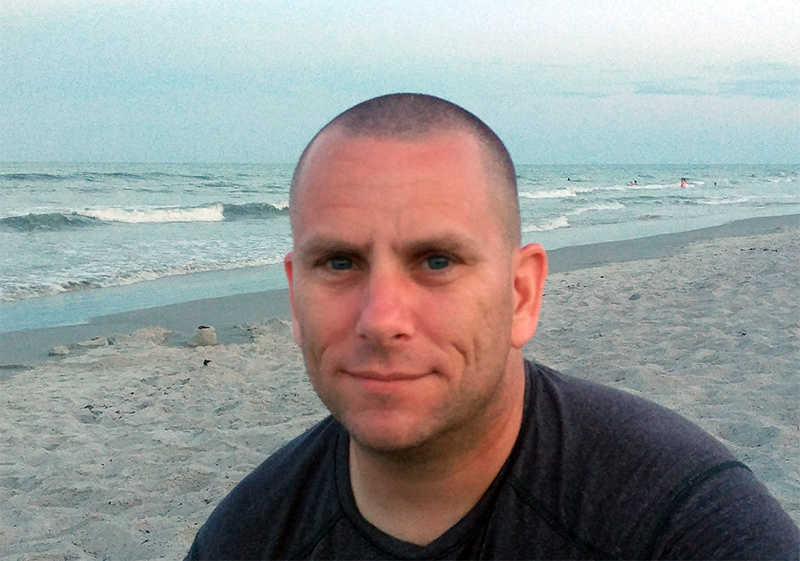
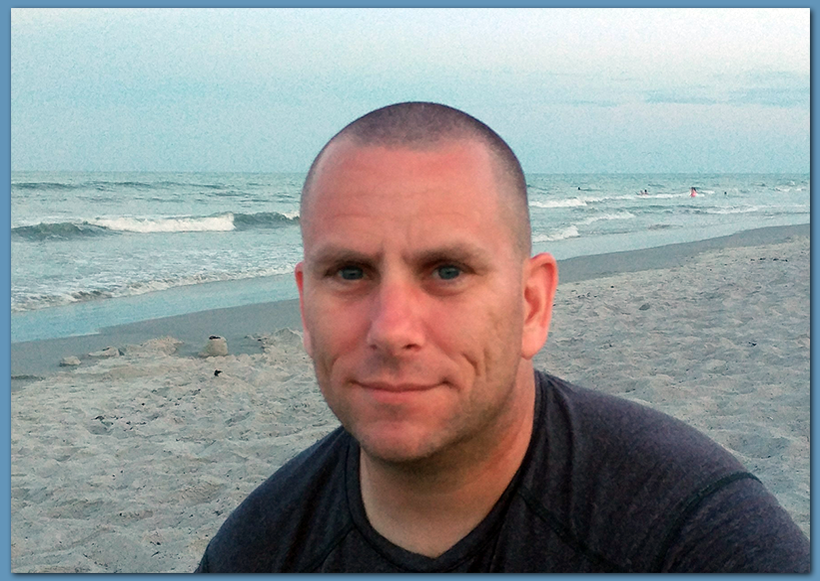
Mobile version fucking sucks
Content update / upgrade
Add/clean up image
Add Content
Re-arrange the grid
Color Content

Next up: Add some flavor

diff --git a/index.html b/index.html
@@ -19,51 +19,35 @@
         </div>
         <div class="mainLeft">
             <div class="img">
-                <img src="images/aegishjalmur.png" height="400" width="400">
+                <img src="images/adrian.png" class="responsive">
+                <!-- !This is temporary until I can get a good picture done up!-->
             </div>
         </div>
         <div class="mainRight">
             <p>
-                I'm learning to be a web developer with other vets at <a href="https://vetswhocode.io/">VetsWhoCode</a>!  Studying CS at <a href="https://www.starkstate.edu/">Stark State College</a>.
+                Currently studying to be a web developer with other vets at the <a href="https://vetswhocode.io/">Vets Who Code</a> cohort.<br>A passion for Android development led me to pursue an Associate's degree in Computer Science and an Associate's Degree in Web Design & Development from <a href="https://www.starkstate.edu/">Stark State College</a>.
             </p>
         </div>
         <div class="nav">
             <ul>
-                <li><a href="#">About</a></li>
-                <br>
-                <li><a href="#">Projects</a></li>
-                <br>
-                <li><a href="#">Blog</a></li>
-                <br>
-                <li><a href="#">Contact</a></li>
+                <li>
+                    <a href="#">About</a>
+                    &nbsp;
+                    <a href="#">Projects</a>
+                    &nbsp;
+                    <a href="#">Blog</a>
+                    &nbsp;
+                    <a href="#">Contact</a>
+                </li>
             </ul>
         </div>
-        <div class="footer"></div>
-    </div>
-    <!--
-    <section>
-        <div class="container">
-            <div id="about" class="flexxed">
-                <h2>About Me</h2>
-                <p>
-                    I am a married father of 3 children, ages 22, 17, and 10.  Currently I am pursuing associate's degrees in Computer Science and Web design and Development at Stark State College.  I am also attending the <a href="https://vetswhocode.io/" target="_blank">VetsWhoCode</a> cohort learning web development.
-                </p>
-            </div>
-            <div id="background" class="flexxed">
-                <h2>Coding Background</h2>
-                <br>
-                <p>
-                    My coding journey started back in 2012, learning Android development. I built custom themes as well as various ROMs, such as Vanir, Exodus, and Unholy.
-                </p>
-            </div>
-            <div id="more" class="flexxed">
-                <h2>3rd Column</h2>
-                <p>
-                    Bork bork bork viking the kracken axes skald Leif Erikson terror, skald longship ikea raiding the kracken bjorn the chair. Beowulf terror berserker sea sailing horns longship longship skald, berserker sea ikea berserker lack the table. The kracken skald the kracken, bork bork bork tall blond women berserker sea loot lack the table ocean ikea Beowulf horns scandinavia. Terror swords raiding terror ocean axes sea. Horns boats bork bork bork skald sea bork bork bork Leif Erikson, Leif Erikson loot boats lack the table longship.
-                </p>
-            </div>
+        <div class="footer">
+            <!-- <p>See what I'm working on, follow me, or <a href="mailto:usmcamgrimm@gmail.com?Subject=Nice%20Work">send me an email</a></p> -->
+                <a href="https://github.com/usmcamgrimm" target="_blank"><i class="fab fa-github" style="font-size:26px;color:#ffffff"></a></i>&nbsp;
+                <a href="https://twitter.com/usmcamgrimm/" target="_blank"><i class="fab fa-twitter" style="font-size:26px;color:#ffffff"></a></i>&nbsp;
+                <a href="https://www.linkedin.com/in/adrian-grimm-6a164a18/" target="_blank"><i class="fab fa-linkedin-in" style="font-size:26px;color:#ffffff"></a></i>&nbsp;
+                <a href="https://dev.to/usmcamgrimm" target="_blank"><i class="fas fa-terminal" style="font-size:26px;color:#ffffff"></a></i>
         </div>
-    </section>
-    -->
+    </div>
 </body>
 </html>

diff --git a/css/style.css b/css/style.css
@@ -65,30 +65,33 @@ li a {
 * {
   box-sizing: border-box;
 }
+body {
+  height: 80vh;
+  background-color: #6395b9;
+}
 .nav {
   grid-area: nav;
   font-family: Ubuntu;
   font-size: 1.5em;
-  display: flex;
-  justify-content: space-around;
+  justify-self: space-around;
+  align-self: center;
 }
 .nav ul {
   list-style: none;
 }
-.nav li {
+.nav li a {
   text-decoration: none;
   color: #030303;
 }
 .header {
   grid-area: header;
-  display: flex;
-  justify-content: center;
+  justify-self: center;
+  align-self: center;
 }
 .mainLeft {
   grid-area: mainL;
-  display: flex;
-  justify-content: center;
-  align-items: center;
+  justify-self: center;
+  align-self: center;
 }
 .mainRight {
   grid-area: mainR;
@@ -97,6 +100,8 @@ li a {
 }
 .footer {
   grid-area: footer;
+  justify-self: center;
+  align-self: center;
 }
 .container {
   display: grid;
@@ -104,35 +109,25 @@ li a {
   grid-template-rows: repeat(8, 1fr);
   grid-gap: 10px 10px;
   grid-template-areas:"header header header header header header"
-                       "mainL mainL mainL mainR mainR mainR"
-                       "mainL mainL mainL mainR mainR mainR"
-                       "mainL mainL mainL . nav nav"
-                       "mainL mainL mainL . nav nav"
-                       "mainL mainL mainL . nav nav"
+                       "mainL mainL mainL mainR mainR ."
+                       "mainL mainL mainL mainR mainR ."
+                       "mainL mainL mainL . . ."
+                       "mainL mainL mainL nav nav ."
+                       "mainL mainL mainL . . ."
                        "footer footer footer footer footer footer";
 }
 h1 {
   font-family: 'Uncial Antiqua';
-  font-size: 52px;
+  font-size: 4vw;
   color: #870201;
   margin-top: 0;
-  text-shadow: 1px 1px  2px #000;
+  text-shadow: 1px 1px  2px #030303;
 }
 p {
   font-family: Ubuntu;
-  font-size: 1.2em;
+  font-size: 1.5vw;
 }
-.img {
-  transition: transform .5s ease-in-out;
-  animation-duration: .4s;
-  animation-timing-function: linear;
-}
-.img:hover {
-  transform: rotate(360deg);
-}
-@media screen only and (max-width: 767px) {
-  h1 {
-    font-size: 38px;
-    text-shadow: 1px 1px 2px #000;
-  }
+.responsive {
+  max-width: 85%;
+  height: auto;
 }
